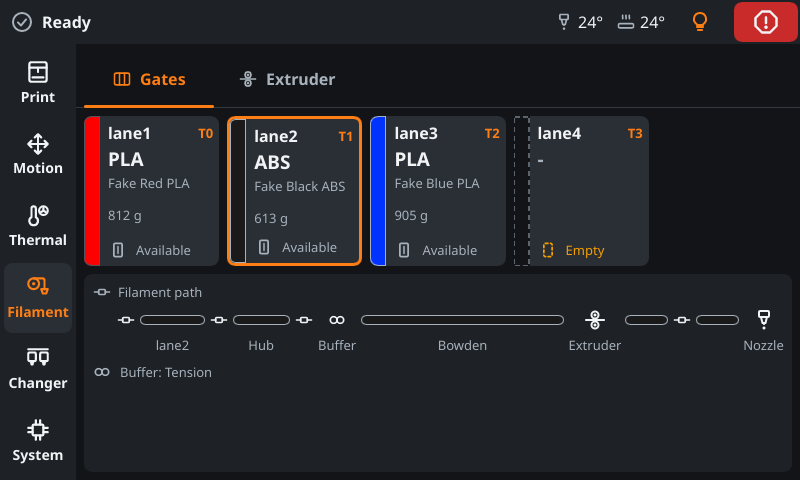
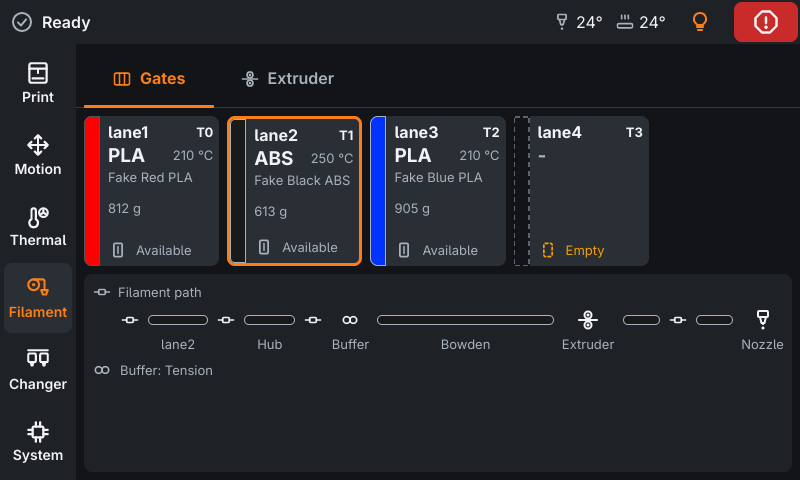
Nozzle temperature per gate and lane, same for Happy Hare and AFC
The gate dialog sets the nozzle temperature of a gate or lane without
a spool (MMU_GATE_MAP TEMP=, AFC_SET_SPOOL_TEMP); with a spool it is
only shown, and material and colour are locked for AFC as well. Tiles
show the temperature beside the material. For AFC the core works out
the temperature AFC loads at from the lane and default_material_temps.

diff --git a/crates/core/src/sources/afc.rs b/crates/core/src/sources/afc.rs
@@ -9,6 +9,7 @@
 
 use super::ObjectStore;
 use super::fields::{count, flag, section, text};
+use super::klipper::DEFAULT_MIN_EXTRUDE_TEMP;
 use super::subscription::Subscription;
 use crate::color::{self, Rgba};
 use serde_json::Value;
@@ -24,7 +25,7 @@ const BUFFER_PREFIX: &str = "AFC_buffer ";
 const LANE_SECTIONS: [&str; 2] = ["afc_stepper ", "afc_lane "];
 const HUB_SECTION: &str = "afc_hub ";
 const AFC_FIELDS: [&str; 4] = ["current_load", "current_state", "error_state", "lanes"];
-const LANE_FIELDS: [&str; 13] = [
+const LANE_FIELDS: [&str; 14] = [
     "unit",
     "extruder",
     "hub",
@@ -33,6 +34,7 @@ const LANE_FIELDS: [&str; 13] = [
     "spool_id",
     "color",
     "material",
+    "extruder_temp",
     "load",
     "prep",
     "loaded_to_hub",
@@ -89,6 +91,10 @@ pub struct AfcLane {
     pub spool_id: Option<u32>,
     pub color: Option<Rgba>,
     pub material: String,
+    /// The lane's own nozzle temperature in °C (`extruder_temp`: from Spoolman or `AFC_SET_SPOOL_TEMP`), if it has one.
+    pub extruder_temp: Option<f64>,
+    /// What AFC heats the nozzle to when it loads the lane outside a print (see [`load_temperature`]).
+    pub load_temperature: f64,
     /// Filament sits in the lane (`prep` or `load`).
     pub filled: bool,
     /// The prep switch where the spool's filament enters; `None` without one (`prep:` in the section).
@@ -174,8 +180,12 @@ pub(super) fn read_afc(store: &ObjectStore) -> Option<AfcStatus> {
     let afc = store.object(AFC_OBJECT)?;
     let settings = store.object("configfile").and_then(|configfile| configfile.get("settings")).unwrap_or(&Value::Null);
     let names = afc.get("lanes").and_then(Value::as_array).map(Vec::as_slice).unwrap_or_default();
-    let lanes: Vec<AfcLane> =
-        names.iter().filter_map(Value::as_str).filter_map(|name| read_lane(store, settings, name)).collect();
+    let material_temps = read_material_temps(settings);
+    let lanes: Vec<AfcLane> = names
+        .iter()
+        .filter_map(Value::as_str)
+        .filter_map(|name| read_lane(store, settings, &material_temps, name))
+        .collect();
     let heads = read_heads(store, settings, &lanes);
     let several_units = lanes.iter().any(|lane| lane.unit != lanes[0].unit);
     Some(AfcStatus {
@@ -210,24 +220,34 @@ fn distinct<'a>(names: impl Iterator<Item = &'a str>) -> impl Iterator<Item = &'
 }
 
 /// A lane reports nothing until AFC has finished starting up (`AFC_lane.py` L2183); such a lane is skipped.
-fn read_lane(store: &ObjectStore, settings: &Value, name: &str) -> Option<AfcLane> {
+fn read_lane(store: &ObjectStore, settings: &Value, material_temps: &[MaterialTemp], name: &str) -> Option<AfcLane> {
     let lane = LANE_PREFIXES.iter().find_map(|prefix| store.object(&format!("{prefix}{name}")))?;
     let afc_extruder = lane.get("extruder").and_then(Value::as_str)?;
     let section = LANE_SECTIONS.iter().find_map(|prefix| section(settings, prefix, name));
     // A switch exists where its pin is configured (`AFC_lane.py` L224-232); the lanes AFC creates for the heads of its
     // tool changer have no section and no switches of their own (`AFC_extruder.py` L327-332).
     let switch = |key: &str| section.filter(|section| !text(section, key).is_empty()).map(|_| flag(lane, key));
+    let extruder = klipper_extruder(settings, afc_extruder);
+    let min_extrude_temp = settings
+        .get(&extruder)
+        .and_then(|section| section.get("min_extrude_temp"))
+        .and_then(Value::as_f64)
+        .unwrap_or(DEFAULT_MIN_EXTRUDE_TEMP);
+    let extruder_temp = lane.get("extruder_temp").and_then(Value::as_f64);
+    let material = text(lane, "material");
     Some(AfcLane {
         name: name.to_owned(),
         unit: text(lane, "unit").to_owned(),
         afc_extruder: afc_extruder.to_owned(),
-        extruder: klipper_extruder(settings, afc_extruder),
+        load_temperature: load_temperature(extruder_temp, material, material_temps, min_extrude_temp),
+        extruder_temp,
+        extruder,
         hub: Some(text(lane, "hub")).filter(|hub| !hub.is_empty() && !DIRECT_HUBS.contains(hub)).map(str::to_owned),
         buffer: Some(text(lane, "buffer")).filter(|buffer| !buffer.is_empty()).map(str::to_owned),
         tool: text(lane, "map").strip_prefix('T').and_then(|number| number.parse().ok()),
         spool_id: count(lane, "spool_id"),
         color: color::parse_hex(text(lane, "color")),
-        material: text(lane, "material").to_owned(),
+        material: material.to_owned(),
         filled: flag(lane, "prep") || flag(lane, "load"),
         prep: switch("prep"),
         load: switch("load"),
@@ -235,6 +255,44 @@ fn read_lane(store: &ObjectStore, settings: &Value, name: &str) -> Option<AfcLan
         in_tool: flag(lane, "tool_loaded"),
         status: text(lane, "status").to_owned(),
     })
+}
+
+/// One entry of AFC's `default_material_temps` (`PLA:210`, `default: 235`), the key lowercased.
+#[derive(Debug, Clone, PartialEq)]
+struct MaterialTemp {
+    key: String,
+    temperature: f64,
+}
+
+/// `default_material_temps` of `[AFC]`; Klipper lists the default (`AFC.py` L161-162) when the option is not set. It
+/// comes as the list `getlists` returns, or as one text where an older Klipper keeps the raw value.
+fn read_material_temps(settings: &Value) -> Vec<MaterialTemp> {
+    let entries: Vec<&str> = match settings.get("afc").and_then(|afc| afc.get("default_material_temps")) {
+        Some(Value::Array(entries)) => entries.iter().filter_map(Value::as_str).collect(),
+        Some(Value::String(text)) => text.split(',').collect(),
+        _ => Vec::new(),
+    };
+    entries
+        .into_iter()
+        .filter_map(|entry| {
+            let (key, temperature) = entry.split_once(':')?;
+            Some(MaterialTemp { key: key.trim().to_lowercase(), temperature: temperature.trim().parse().ok()? })
+        })
+        .collect()
+}
+
+/// The nozzle temperature AFC loads a lane at outside a print, as `AFC._get_default_material_temps` (`AFC.py`,
+/// main 2026-11) picks it: the lane's own above `min_extrude_temp`, else the first entry of the table whose key is part
+/// of the material (case aside), else the entry `default`, else `min_extrude_temp` + 5.
+fn load_temperature(own: Option<f64>, material: &str, table: &[MaterialTemp], min_extrude_temp: f64) -> f64 {
+    const ABOVE_MIN_EXTRUDE_C: f64 = 5.0;
+    if let Some(own) = own.filter(|own| *own > min_extrude_temp) {
+        return own;
+    }
+    let material = material.trim().to_lowercase();
+    let by_material = table.iter().find(|entry| !material.is_empty() && material.contains(&entry.key));
+    let by_default = || table.iter().find(|entry| entry.key.contains("default"));
+    by_material.or_else(by_default).map_or(min_extrude_temp + ABOVE_MIN_EXTRUDE_C, |entry| entry.temperature)
 }
 
 /// A hub with its switch; a virtual hub (`switch_pin: virtual`) or one whose section is unknown has none.
@@ -444,11 +502,16 @@ pub fn eject_lane(lane: &str) -> String {
 /// main 2026-11). So a new material clears it: 0 is below `min_extrude_temp`, and AFC takes the temperature of the
 /// material from that table again (`AFC_spool.py` `cmd_AFC_SET_SPOOL_TEMP`, L120-150).
 pub fn set_filament(lane: &str, material: Option<&str>, color: Option<[u8; 3]>) -> String {
-    let material = material.filter(|material| !material.is_empty()).map(|material| {
-        format!("SET_MATERIAL LANE={lane} MATERIAL={material}\nAFC_SET_SPOOL_TEMP LANE={lane} EXTRUDER_TEMP=0")
-    });
+    let material = material
+        .filter(|material| !material.is_empty())
+        .map(|material| format!("SET_MATERIAL LANE={lane} MATERIAL={material}\n{}", set_temperature(lane, 0.0)));
     let color = color.map(|[red, green, blue]| format!("SET_COLOR LANE={lane} COLOR={red:02X}{green:02X}{blue:02X}"));
     material.into_iter().chain(color).collect::<Vec<_>>().join("\n")
+}
+
+/// The lane's own nozzle temperature in whole °C (`AFC_SET_SPOOL_TEMP`, which takes an integer of at least 0).
+pub fn set_temperature(lane: &str, celsius: f64) -> String {
+    format!("AFC_SET_SPOOL_TEMP LANE={lane} EXTRUDER_TEMP={}", celsius.round().max(0.0))
 }
 
 /// `SET_SPOOL_ID` puts a spool into a lane; without `SPOOL_ID` it takes it out (`AFC_spool.py` L325). AFC refuses a
@@ -536,5 +599,37 @@ mod tests {
     fn a_spool_goes_into_a_lane_and_comes_out_without_id() {
         assert_eq!(assign_spool("lane2", Some(7)), "SET_SPOOL_ID LANE=lane2 SPOOL_ID=7");
         assert_eq!(assign_spool("lane2", None), "SET_SPOOL_ID LANE=lane2");
+    }
+
+    #[test]
+    fn the_temperature_of_a_lane_is_sent_in_whole_degrees() {
+        assert_eq!(set_temperature("lane2", 214.6), "AFC_SET_SPOOL_TEMP LANE=lane2 EXTRUDER_TEMP=215");
+        assert_eq!(set_temperature("lane2", 0.0), "AFC_SET_SPOOL_TEMP LANE=lane2 EXTRUDER_TEMP=0");
+    }
+
+    /// AFC's own default table (`AFC.py` L161-162), as Klipper lists it in `configfile.settings`.
+    #[test]
+    fn the_load_temperature_follows_the_lane_then_the_material_table_of_afc() {
+        let lane = |extruder_temp: Value, material: &str| json!({ "unit": "Turtle_1", "extruder": "extruder", "material": material, "extruder_temp": extruder_temp });
+        let read = |settings: Value| {
+            let store = store(json!({
+                "AFC": { "lanes": ["lane1", "lane2", "lane3", "lane4", "lane5"] },
+                "AFC_stepper lane1": lane(json!(255), "ASA"),
+                "AFC_stepper lane2": lane(json!(0), "pla+"),
+                "AFC_stepper lane3": lane(json!(null), "PETG"),
+                "AFC_stepper lane4": lane(json!(null), "PEEK"),
+                "AFC_stepper lane5": lane(json!(null), ""),
+                "configfile": { "settings": settings },
+            }));
+            read_afc(&store).unwrap().lanes.iter().map(|lane| lane.load_temperature).collect::<Vec<_>>()
+        };
+        let table = json!(["default: 235", "PLA:210", "PETG:240"]);
+
+        assert_eq!(read(json!({ "afc": { "default_material_temps": table } })), [255.0, 210.0, 240.0, 235.0, 235.0]);
+        let text = json!("default: 230, PLA:205");
+        assert_eq!(read(json!({ "afc": { "default_material_temps": text } })), [255.0, 205.0, 230.0, 230.0, 230.0]);
+        let without_default = json!({ "afc": { "default_material_temps": ["PLA:210"] },
+                                      "extruder": { "min_extrude_temp": 180.0 } });
+        assert_eq!(read(without_default), [255.0, 210.0, 185.0, 185.0, 185.0]);
     }
 }

diff --git a/crates/core/src/commands/tests.rs b/crates/core/src/commands/tests.rs
@@ -255,6 +255,13 @@ fn a_new_material_takes_the_default_temperature_of_happy_hare() {
 
     assert_eq!(set("PLA"), Ok(vec![Command::RunGcode { script: "MMU_GATE_MAP GATE=0 MATERIAL=PLA TEMP=200".into() }]));
     assert_eq!(set("asa"), Ok(vec![Command::RunGcode { script: "MMU_GATE_MAP GATE=0 MATERIAL=asa TEMP=255".into() }]));
+    let typed = Command::SetLaneTemperature { lane: LaneId::Gate(0), temperature: 244.6 };
+    assert_eq!(
+        typed.resolve(&printer(&[]), &status),
+        Ok(vec![Command::RunGcode { script: "MMU_GATE_MAP GATE=0 TEMP=245".into() }])
+    );
+    let unknown = Command::SetLaneTemperature { lane: LaneId::Gate(4), temperature: 245.0 };
+    assert!(unknown.resolve(&printer(&[]), &status).is_err());
 }
 
 #[test]
@@ -461,6 +468,14 @@ fn a_lane_command_becomes_the_g_code_of_its_source() {
         gcode("SET_COLOR LANE=lane2 COLOR=FF1000")
     );
     assert_eq!(resolve(Command::SetLaneFilament { lane: afc(), material: None, color: None }), Ok(Vec::new()));
+    assert_eq!(
+        resolve(Command::SetLaneTemperature { lane: afc(), temperature: 230.0 }),
+        gcode("AFC_SET_SPOOL_TEMP LANE=lane2 EXTRUDER_TEMP=230")
+    );
+    assert_eq!(
+        resolve(Command::SetLaneTemperature { lane: LaneId::Bypass, temperature: 230.0 }),
+        Err(CommandError::NotForBypass)
+    );
     assert_eq!(resolve(Command::LoadLane { lane: LaneId::Gate(3) }), Ok(vec![Command::MmuLoadGate { gate: 3 }]));
     assert_eq!(resolve(Command::UnloadLane { lane: LaneId::Gate(3) }), Ok(vec![Command::MmuUnload]));
     assert_eq!(resolve(Command::EjectLane { lane: LaneId::Gate(3) }), Ok(vec![Command::MmuEject { gate: Some(3) }]));

diff --git a/fake-moonraker/src/afc.rs b/fake-moonraker/src/afc.rs
@@ -863,8 +863,16 @@ impl Afc {
     /// the only place that names the head's Klipper extruder.
     pub fn config_sections(&self) -> Vec<(String, Value)> {
         let mut sections = vec![
-            // `AFC.py` L228: without `auto_home` a tool load on an unhomed printer is refused.
-            ("afc".to_owned(), json!({ "auto_home": false, "enable_sensors_in_gui": true })),
+            // `AFC.py` L228: without `auto_home` a tool load on an unhomed printer is refused. Klipper lists the default
+            // of `default_material_temps` (`AFC.py` L161-162, main 2026-11) as the list `getlists` returns.
+            (
+                "afc".to_owned(),
+                json!({
+                    "auto_home": false,
+                    "enable_sensors_in_gui": true,
+                    "default_material_temps": ["default: 235", "PLA:210", "PETG:235", "ABS:235", "ASA:235"],
+                }),
+            ),
         ];
         match self.layout {
             AfcLayout::BoxTurtle => self.box_turtle_sections(&mut sections),

diff --git a/crates/app/src/mmu_view.rs b/crates/app/src/mmu_view.rs
@@ -430,6 +430,7 @@ fn gate_items(mmu: &MmuStatus, lanes: &[Lane], matches: &[ToolMatch]) -> Vec<Mmu
                 group: id_or_none(gate.endless_spool_group),
                 selected,
                 check_unloads_first: mmu.unloads_before_checking(gate.index),
+                temperature: whole_degrees(gate.temperature),
             }
         })
         .collect()
@@ -460,9 +461,15 @@ fn lane_items(status: &PrinterStatus, tiles: &[Lane]) -> Vec<MmuGateItem> {
                 selected: lane.active,
                 loaded: lane.active,
                 check_unloads_first: false,
+                temperature: whole_degrees(reported.map(|lane| lane.load_temperature)),
             }
         })
         .collect()
+}
+
+/// A nozzle temperature for a tile in whole °C; 0 for none.
+fn whole_degrees(celsius: Option<f64>) -> i32 {
+    celsius.filter(|celsius| *celsius > 0.0).map_or(0, |celsius| celsius.round() as i32)
 }
 
 /// The state of the MMU: what it holds, does and reports.

diff --git a/crates/core/src/commands/mod.rs b/crates/core/src/commands/mod.rs
@@ -272,6 +272,11 @@ pub enum Command {
         material: Option<String>,
         color: Option<[u8; 3]>,
     },
+    /// Sets the nozzle temperature in °C the source loads the lane at outside a print, where it keeps one.
+    SetLaneTemperature {
+        lane: LaneId,
+        temperature: f64,
+    },
     /// Maps the slicer tool `T<tool>` to the lane; AFC swaps it with the lane that had it.
     MapToolToLane {
         tool: usize,
@@ -427,6 +432,7 @@ impl Command {
             | Self::EjectLane { .. }
             | Self::AssignLaneSpool { .. }
             | Self::SetLaneFilament { .. }
+            | Self::SetLaneTemperature { .. }
             | Self::MapToolToLane { .. }
             | Self::ResetToolMap
             | Self::AfcResetFailure

diff --git a/crates/core/src/commands/resolve/mmu.rs b/crates/core/src/commands/resolve/mmu.rs
@@ -25,6 +25,19 @@ pub(super) fn set_gate_filament(
     Ok(vec![Command::RunGcode { script: mmu::set_gate_filament(gate, material.as_deref(), color, temperature)? }])
 }
 
+pub(super) fn set_gate_temperature(
+    status: &PrinterStatus,
+    gate: usize,
+    temperature: f64,
+) -> Result<Vec<Command>, CommandError> {
+    let state = status.mmu.as_ref().ok_or(CommandError::NoMmu)?;
+    if !state.gate_map_is_local() {
+        return Err(CommandError::GateMapFromSpoolman);
+    }
+    state.gates.get(gate).ok_or(CommandError::UnknownGate(gate))?;
+    Ok(vec![Command::RunGcode { script: mmu::set_gate_filament(gate, None, None, Some(temperature))? }])
+}
+
 pub(super) fn set_endless_spool_group(
     status: &PrinterStatus,
     gate: usize,

diff --git a/crates/core/src/commands/resolve/lanes.rs b/crates/core/src/commands/resolve/lanes.rs
@@ -60,6 +60,18 @@ pub(super) fn set_filament(
     }
 }
 
+pub(super) fn set_temperature(
+    status: &PrinterStatus,
+    lane: LaneId,
+    temperature: f64,
+) -> Result<Vec<Command>, CommandError> {
+    Ok(vec![match lane {
+        LaneId::Gate(gate) => return mmu::set_gate_temperature(status, gate, temperature),
+        LaneId::Bypass => return Err(CommandError::NotForBypass),
+        LaneId::Afc(name) => gcode(afc::set_temperature(afc_lane(status, &name)?, temperature)),
+    }])
+}
+
 /// Happy Hare stores materials in capitals, so `pla` is no new material for a gate with `PLA`.
 pub(super) fn is_new_material(current: &str, new: Option<&str>) -> bool {
     new.is_some_and(|new| !new.eq_ignore_ascii_case(current))

diff --git a/crates/app/src/actions.rs b/crates/app/src/actions.rs
@@ -236,6 +236,12 @@ fn bind_lanes(actions: &Actions, service: &PrinterService, presenter: &Rc<Presen
             service_for_color.send(Command::SetLaneFilament { lane, material: None, color });
         }
     });
+    let (service_for_temperature, presenter_for_temperature) = (service.clone(), Rc::clone(presenter));
+    actions.on_set_lane_temperature(move |row, temperature| {
+        if let Some(lane) = lane_of_row(&presenter_for_temperature, row) {
+            service_for_temperature.send(Command::SetLaneTemperature { lane, temperature: f64::from(temperature) });
+        }
+    });
 }
 
 /// Spoolman: the spool in use, the picker, weighing and the spool's temperatures.

diff --git a/crates/core/src/commands/resolve/mod.rs b/crates/core/src/commands/resolve/mod.rs
@@ -48,6 +48,7 @@ impl Command {
             Self::EjectLane { lane } => lanes::eject(status, lane)?,
             Self::AssignLaneSpool { lane, spool_id } => lanes::assign_spool(status, lane, spool_id)?,
             Self::SetLaneFilament { lane, material, color } => lanes::set_filament(status, lane, material, color)?,
+            Self::SetLaneTemperature { lane, temperature } => lanes::set_temperature(status, lane, temperature)?,
             Self::MapToolToLane { tool, lane } => lanes::map_tool(status, tool, lane)?,
             Self::ResetToolMap => lanes::reset_tool_map(status)?,
             Self::AfcResetFailure => vec![lanes::afc_reset_failure(status)?],

diff --git a/crates/app/src/command_name.rs b/crates/app/src/command_name.rs
@@ -86,6 +86,7 @@ pub fn command_name(command: &Command) -> String {
         Command::EjectLane { .. } => "Eject Lane".to_owned(),
         Command::AssignLaneSpool { .. } => "Assign Lane Spool".to_owned(),
         Command::SetLaneFilament { .. } => "Set Lane Filament".to_owned(),
+        Command::SetLaneTemperature { .. } => "Set Lane Temperature".to_owned(),
         Command::MapToolToLane { .. } => "Map Tool To Lane".to_owned(),
         Command::ResetToolMap => "Reset Tool Map".to_owned(),
         Command::AfcResetFailure => "AFC Reset Failure".to_owned(),

diff --git a/crates/core/src/sources/klipper/heaters.rs b/crates/core/src/sources/klipper/heaters.rs
@@ -38,7 +38,7 @@ const UNSET_MAX_TEMP: f64 = 1_000_000.0;
 /// Klipper's default of `verify_heater` `hysteresis` (°C).
 pub const DEFAULT_HYSTERESIS: f64 = 5.0;
 /// Klipper's default of the extruder's `min_extrude_temp` (°C).
-const DEFAULT_MIN_EXTRUDE_TEMP: f64 = 170.0;
+pub const DEFAULT_MIN_EXTRUDE_TEMP: f64 = 170.0;
 
 impl Heater {
     /// The heater of a nozzle: Klipper's `extruder`, or `extruder1`, `extruder2`, … of a printer with several.

diff --git a/crates/core/src/sources/klipper/mod.rs b/crates/core/src/sources/klipper/mod.rs
@@ -31,7 +31,7 @@ pub use extruder::ExtruderState;
 pub use fan_watch::FanWatch;
 pub use filament_sensors::FilamentSensor;
 pub use firmware_retraction::Retraction;
-pub use heaters::{BED_HEATER, Heater, NOZZLE_HEATER, TemperatureSensor};
+pub use heaters::{BED_HEATER, DEFAULT_MIN_EXTRUDE_TEMP, Heater, NOZZLE_HEATER, TemperatureSensor};
 pub use height_watch::HeightWatch;
 pub use job::{PrintJob, PrintState};
 pub use leveling::Leveling;
